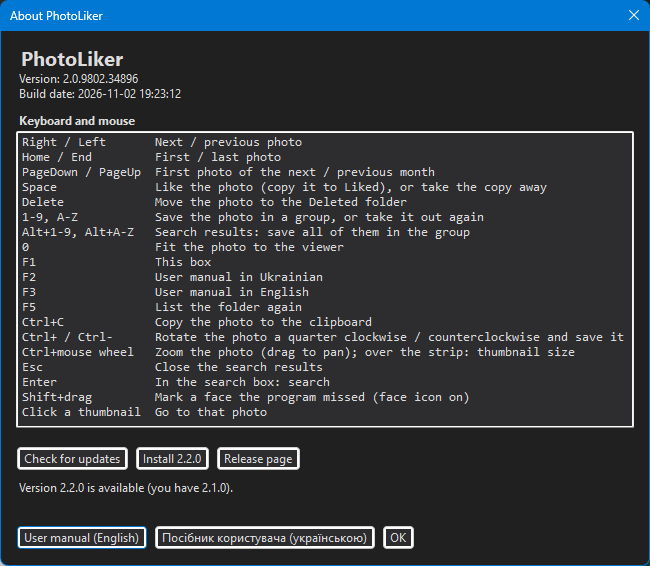
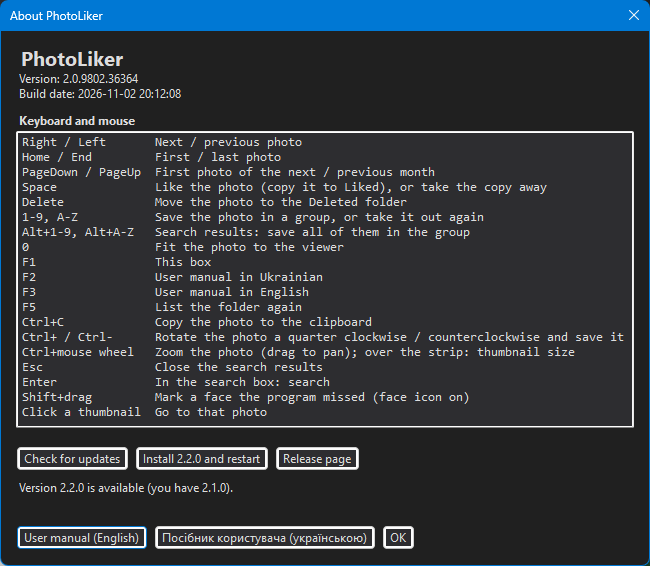
Enhance update process with progress bar and improved messaging; update UI and documentation

Changed region(s): [[0.3077, 0.7809, 0.5538, 0.841], [0.2154, 0.1502, 0.2769, 0.1802], [0.1538, 0.1201, 0.2154, 0.1502]]

diff --git a/docs/manual.en.html b/docs/manual.en.html
@@ -572,9 +572,11 @@ You do not need the box for that: <kbd>F3</kbd> opens the English manual and <kb
 </figure>
 
 <p><strong>Check for updates</strong> asks GitHub whether there is a newer version of PhotoLiker than yours. It asks only when you press it: nothing is checked in the
-background. If there is a newer version, <strong>Install</strong> asks you first, then downloads the setup, checks it, closes PhotoLiker, runs the setup over the installed
-copy and starts PhotoLiker again. Your settings, likes and search indexes are kept. <strong>Release page</strong> opens the page of that version, where it says what changed.
-A copy that was unpacked from the zip, or run from the source, is not replaced this way: the box then sends you to the release page.</p>
+background. If there is a newer version, <strong>Install and restart</strong> does the rest from the box: it downloads the setup (with a progress bar), checks it, closes PhotoLiker,
+runs the setup silently over the installed copy (only its small progress window shows) and starts PhotoLiker again. Your settings, likes and search indexes are kept.
+<strong>Release page</strong> opens the page of that version, where it says what changed.
+A copy that was unpacked from the zip, or run from the source, cannot be replaced by the setup: it installs PhotoLiker for you as a second copy and starts that one, so this is the one
+case where <strong>Install</strong> asks first. The copy you ran it from stays where it is.</p>
 
 <figure>
   <img src="images/27-about-update.png" alt="The About box after Check for updates found a newer version" width="650" height="566">

diff --git a/tools/SmokeTour/Tour.Update.cs b/tools/SmokeTour/Tour.Update.cs
@@ -29,25 +29,30 @@ internal sealed partial class Tour
         var opened = new List<string>();
         var questions = new List<string>();
         var answer = false;
-        var stage = "release"; // what the stand-in says: "release", "same", "down"
+        var stage = "release"; // what the stand-in says: "release", "same", "down", "nosetup"
+        ProgressBar? bar = null;
+        var barShownWhileDownloading = false;
 
         var requests = new List<string>();
         var handler = new StandInGitHub(request =>
         {
             requests.Add(request.RequestUri!.ToString());
             if (request.RequestUri.Host == "github.com")
+            {
+                barShownWhileDownloading = bar?.Visible == true; // the box shows the progress bar before it asks for the file
                 return new HttpResponseMessage(HttpStatusCode.OK) { Content = new ByteArrayContent(setupBytes) };
+            }
 
             var version = stage == "same" ? "2.1.0" : "2.2.0";
+            var assets = stage == "nosetup" ? "" : $$"""
+                { "name": "PhotoLiker-Setup-{{version}}.exe", "size": {{setupBytes.Length}}, "digest": "sha256:{{sha}}",
+                  "browser_download_url": "{{FakeRepository}}/download/v{{version}}/PhotoLiker-Setup-{{version}}.exe" }
+                """;
             return stage == "down"
                 ? new HttpResponseMessage(HttpStatusCode.InternalServerError)
                 : new HttpResponseMessage(HttpStatusCode.OK)
                 {
-                    Content = new StringContent($$"""
-                        { "tag_name": "v{{version}}", "assets": [ {
-                          "name": "PhotoLiker-Setup-{{version}}.exe", "size": {{setupBytes.Length}}, "digest": "sha256:{{sha}}",
-                          "browser_download_url": "{{FakeRepository}}/download/v{{version}}/PhotoLiker-Setup-{{version}}.exe" } ] }
-                        """, Encoding.UTF8, "application/json")
+                    Content = new StringContent($$"""{ "tag_name": "v{{version}}", "assets": [ {{assets}} ] }""", Encoding.UTF8, "application/json")
                 };
         });
 
@@ -69,8 +74,9 @@ internal sealed partial class Tour
         var install = Field<Button>(dialog, "_install");
         var releasePage = Field<Button>(dialog, "_releasePage");
         var status = Field<Label>(dialog, "_status");
+        bar = Field<ProgressBar>(dialog, "_progress");
 
-        checks.That(check.Visible && check.Enabled && !install.Visible && !releasePage.Visible && status.Text.Length == 0,
+        checks.That(check.Visible && check.Enabled && !install.Visible && !releasePage.Visible && !bar.Visible && status.Text.Length == 0,
             "at first there is the button and nothing else, and GitHub has not been asked");
         checks.That(requests.Count == 0, "nothing was asked of GitHub just by opening the box");
 
@@ -91,35 +97,42 @@ internal sealed partial class Tour
         stage = "release";
         check.PerformClick();
         checks.That(await Until(() => status.Text.Contains("Version 2.2.0 is available (you have 2.1.0)")), $"a newer version is announced ('{status.Text}')");
-        checks.That(install.Visible && install.Text == "Install 2.2.0" && releasePage.Visible, $"with the buttons '{install.Text}' and '{releasePage.Text}'");
+        checks.That(install.Visible && install.Text == "Install 2.2.0 and restart" && releasePage.Visible, $"with the buttons '{install.Text}' and '{releasePage.Text}'");
         await DialogShot(dialog, "27-about-update");
 
         releasePage.PerformClick();
         checks.That(opened.SequenceEqual([FakeRepository + "/tag/v2.2.0"]), $"the release page opens the page of the tag ({string.Join(", ", opened)})");
 
-        // 4. a newer version, this copy is a zip or a build from source
+        // 4. a newer version, this copy is a zip or a build from source: it can install too, after a question that says what will happen
         Set("InstalledBySetup", false);
         check.PerformClick();
-        checks.That(await Until(() => status.Text.Contains("not put here by the setup")), $"a copy that is not installed is sent to the release page ('{status.Text}')");
-        checks.That(!install.Visible && releasePage.Visible, "no Install button for it");
+        checks.That(await Until(() => status.Text.Contains("Version 2.2.0 is available (you have 2.1.0)")), $"a copy that is not installed is told the same ('{status.Text}')");
+        checks.That(install.Visible && releasePage.Visible, "and is offered the setup as well");
+        var downloadsBefore = requests.Count(url => url.Contains("/download/"));
+        install.PerformClick();
+        await Settle(300);
+        checks.That(questions.Count == 1 && questions[0].Contains("not put here by the setup") && questions[0].Contains("2.2.0"), "but it is asked first, and told it gets a second copy");
+        checks.That(requests.Count(url => url.Contains("/download/")) == downloadsBefore && !Directory.Exists(downloadFolder) && !bar.Visible, "and answering No downloads nothing");
+        checks.That(OpenDialog(AboutDialogType) is not null && install.Visible, "and the box stays as it was");
         Set("InstalledBySetup", true);
 
         // 5. a build that is no release
         Set("InstalledVersion", null);
         check.PerformClick();
         checks.That(await Until(() => status.Text.Contains("development build")), $"a build from source says what it is ('{status.Text}')");
-        checks.That(!install.Visible && releasePage.Visible, "and is not offered a setup");
+        checks.That(install.Visible && releasePage.Visible, "and may install the latest release");
         Set("InstalledVersion", new Version(2, 1, 0));
 
-        // 6. install: No to the question first, then Yes
+        // 6. a release that has no setup file
+        stage = "nosetup";
+        check.PerformClick();
+        checks.That(await Until(() => status.Text.Contains("has no setup file")), $"a release without a setup says so ('{status.Text}')");
+        checks.That(!install.Visible && releasePage.Visible, "and only offers its page");
+        stage = "release";
+
+        // 7. a copy that the setup put here: no question at all, a progress bar, then the window closes and starts the setup
         check.PerformClick();
         checks.That(await Until(() => install.Visible), "the newer version is found again");
-        var downloadsBefore = requests.Count(url => url.Contains("/download/"));
-        install.PerformClick();
-        await Settle(300);
-        checks.That(questions.Count == 1 && questions[0].Contains("2.2.0") && questions[0].Contains("closes"), "Install asks first, and says that the program closes");
-        checks.That(requests.Count(url => url.Contains("/download/")) == downloadsBefore && !Directory.Exists(downloadFolder), "and answering No downloads nothing");
-        checks.That(OpenDialog(AboutDialogType) is not null && install.Visible, "and the box stays as it was");
 
         var ran = false;
         var answeredAt = DateTime.UtcNow;
@@ -129,7 +142,9 @@ internal sealed partial class Tour
             // code does not run any more, the window it runs in is gone)
             ran = true;
             var file = new FileInfo(path);
-            checks.That(file.Exists && file.Length == setupBytes.Length && File.ReadAllBytes(path).SequenceEqual(setupBytes), "Yes: the setup was downloaded, whole, to " + path);
+            checks.That(questions.Count == 1, "Install asked nothing this time (the one question was the other copy's)");
+            checks.That(barShownWhileDownloading, "a progress bar was on while the setup came down");
+            checks.That(file.Exists && file.Length == setupBytes.Length && File.ReadAllBytes(path).SequenceEqual(setupBytes), "the setup was downloaded, whole, to " + path);
             checks.That(Path.GetFileName(path) == "PhotoLiker-Setup-2.2.0.exe" && Path.GetDirectoryName(path) == downloadFolder, "under the name GitHub gave it");
             checks.That(!Directory.EnumerateFiles(downloadFolder, "*.part").Any(), "nothing half-downloaded is left");
             checks.That(File.GetLastWriteTimeUtc(Path.Combine(AppPaths.DataFolder, "global-config.json")) >= answeredAt, "the window had saved its settings (as it closed) before the setup was started");
@@ -139,10 +154,8 @@ internal sealed partial class Tour
             return null;
         }));
 
-        answer = true;
         install.PerformClick();
         checks.That(await Until(() => ran, 20000), "the box closed, then the window, which started the setup");
-        checks.That(questions.Count == 2, "after a second question");
     }
 
     private sealed class StandInGitHub(Func<HttpRequestMessage, HttpResponseMessage> answer) : HttpMessageHandler

diff --git a/PhotoLikerUI/AboutDialog.cs b/PhotoLikerUI/AboutDialog.cs
@@ -15,6 +15,7 @@ namespace PhotoLikerUI
         private readonly Button _install;
         private readonly Button _releasePage;
         private readonly Label _status;
+        private readonly ProgressBar _progress;
         private ReleaseInfo? _release;
 
         /// <summary>The setup of a new version that was downloaded and is to be run, with the program closed (the window does it once the box has closed).</summary>
@@ -96,11 +97,14 @@ namespace PhotoLikerUI
                 Margin = new Padding(3, 6, 3, 0)
             };
 
+            // Only while the setup is downloaded
+            _progress = new ProgressBar { Style = ProgressBarStyle.Continuous, Size = new Size(shortcuts.Width, 14), Margin = new Padding(3, 4, 3, 0), Visible = false };
+
             var buttons = new FlowLayoutPanel { AutoSize = true, WrapContents = false, Margin = new Padding(0, 12, 0, 0) };
             buttons.Controls.AddRange([english, ukrainian, ok]);
 
             var layout = new TableLayoutPanel { AutoSize = true, ColumnCount = 1, Padding = new Padding(12), Dock = DockStyle.Fill };
-            layout.Controls.AddRange([heading, version, shortcutsHeading, shortcuts, updateButtons, _status, buttons]);
+            layout.Controls.AddRange([heading, version, shortcutsHeading, shortcuts, updateButtons, _status, _progress, buttons]);
             Controls.Add(layout);
 
             AcceptButton = ok;
@@ -144,7 +148,10 @@ namespace PhotoLikerUI
             }
         }
 
-        /// <summary>Says what the latest release means for this copy, and offers the setup if this copy can be updated by it.</summary>
+        /// <summary>
+        /// Says what the latest release means for this copy, and offers its setup (any copy can have it: one that the setup put here is replaced by it,
+        /// any other, a zip or a build from the source, gets an installed copy next to it, which InstallAsync says before it does it).
+        /// </summary>
         private void ShowLatest(ReleaseInfo? latest)
         {
             if (latest is null)
@@ -157,28 +164,25 @@ namespace PhotoLikerUI
             var number = latest.Version.ToString(3);
             var installed = UpdateLauncher.InstalledVersion;
 
-            if (installed is null)
-            {
-                _status.Text = string.Format(AboutStrings.UpdateDevelopmentFormat, number);
-                _releasePage.Visible = true;
-            }
-            else if (!UpdateChecker.IsNewer(latest.Version, installed))
+            if (installed is not null && !UpdateChecker.IsNewer(latest.Version, installed))
             {
                 _status.Text = string.Format(AboutStrings.UpdateUpToDateFormat, installed.ToString(3));
+                return;
             }
-            else
-            {
-                var canInstall = UpdateLauncher.InstalledBySetup && latest.InstallerUrl is not null;
-                _status.Text = string.Format(
-                    canInstall ? AboutStrings.UpdateAvailableFormat : latest.InstallerUrl is null ? AboutStrings.UpdateNoSetupFormat : AboutStrings.UpdateNotInstalledFormat,
-                    number, installed.ToString(3));
-                _install.Text = string.Format(AboutStrings.UpdateInstallButtonFormat, number);
-                _install.Visible = canInstall;
-                _releasePage.Visible = true;
-            }
+
+            // A build that is no release (installed is null) has no number to compare: it is told what the latest is, and may install it
+            _status.Text = installed is null
+                ? string.Format(AboutStrings.UpdateDevelopmentFormat, number)
+                : string.Format(latest.InstallerUrl is null ? AboutStrings.UpdateNoSetupFormat : AboutStrings.UpdateAvailableFormat, number, installed.ToString(3));
+            _install.Text = string.Format(AboutStrings.UpdateInstallButtonFormat, number);
+            _install.Visible = latest.InstallerUrl is not null;
+            _releasePage.Visible = true;
         }
 
-        /// <summary>Downloads the setup of the release found and closes the box; the window then closes and runs it (<see cref="SetupToRun"/>).</summary>
+        /// <summary>
+        /// Downloads the setup of the release found, with a progress bar, and closes the box; the window then closes, runs the setup silently and the
+        /// program starts again (<see cref="SetupToRun"/>). A copy that the setup did not put here is asked first: the new version becomes a second copy.
+        /// </summary>
         private async Task InstallAsync()
         {
             if (_release is not { InstallerUrl: not null } release)
@@ -186,12 +190,17 @@ namespace PhotoLikerUI
 
             var number = release.Version.ToString(3);
             var total = (double)release.InstallerBytes / BytesInMegabyte;
-            if (!UpdateLauncher.Confirm(this, string.Format(AboutStrings.UpdateConfirmFormat, number, total)))
+            if (!UpdateLauncher.InstalledBySetup && !UpdateLauncher.Confirm(this, string.Format(AboutStrings.UpdateConfirmCopyFormat, number, total)))
                 return;
 
             _check.Enabled = _install.Enabled = false;
+            _progress.Value = 0;
+            _progress.Visible = true;
             var progress = new Progress<(long Done, long Total)>(step =>
-                _status.Text = string.Format(AboutStrings.UpdateDownloadingFormat, number, (double)step.Done / BytesInMegabyte, (double)step.Total / BytesInMegabyte));
+            {
+                _status.Text = string.Format(AboutStrings.UpdateDownloadingFormat, number, (double)step.Done / BytesInMegabyte, (double)step.Total / BytesInMegabyte);
+                _progress.Value = step.Total > 0 ? (int)Math.Min(100, 100 * step.Done / step.Total) : 0;
+            });
             _status.Text = string.Format(AboutStrings.UpdateDownloadingFormat, number, 0.0, total);
 
             try
@@ -210,7 +219,10 @@ namespace PhotoLikerUI
             finally
             {
                 if (!IsDisposed)
+                {
+                    _progress.Visible = false;
                     _check.Enabled = _install.Enabled = true;
+                }
             }
         }
 

diff --git a/PhotoLikerUI/UpdateLauncher.cs b/PhotoLikerUI/UpdateLauncher.cs
@@ -21,8 +21,8 @@ namespace PhotoLikerUI
         public static Version? InstalledVersion { get; set; } = AppVersionInfo.ReleaseVersion;
 
         /// <summary>
-        /// Whether the setup put this copy here: it leaves unins000.exe beside the program. Only such a copy can be replaced by a new setup;
-        /// one that came from the zip is replaced by hand, and a setup run over it would put a second copy elsewhere.
+        /// Whether the setup put this copy here: it leaves unins000.exe beside the program. Only such a copy is replaced by a new setup; for any
+        /// other (the zip, a build from the source) the setup puts a second copy elsewhere, so the About box asks before it does that.
         /// </summary>
         public static bool InstalledBySetup { get; set; } = File.Exists(Path.Combine(AppContext.BaseDirectory, "unins000.exe"));
 

diff --git a/PhotoLikerUI/AboutStrings.cs b/PhotoLikerUI/AboutStrings.cs
@@ -24,10 +24,10 @@ namespace PhotoLikerUI
         public static string UpdateUpToDateFormat => T();
         public static string UpdateAvailableFormat => T();
         public static string UpdateDevelopmentFormat => T();
-        public static string UpdateNotInstalledFormat => T();
         public static string UpdateNoSetupFormat => T();
         public static string UpdateCheckFailedFormat => T();
-        public static string UpdateConfirmFormat => T();
+        public static string UpdateConfirmCopyFormat => T();
+        public static string UpdateNotClosed => T();
         public static string UpdateDownloadingFormat => T();
         public static string UpdateDownloadFailedFormat => T();
         public static string UpdateStartFailedFormat => T();

diff --git a/PhotoLikerUI/MainForm.Update.cs b/PhotoLikerUI/MainForm.Update.cs
@@ -17,6 +17,9 @@ namespace PhotoLikerUI
             _setupAfterClose = setup;
             Close();
             _setupAfterClose = null; // already used if the window closed; dropped if it did not
+
+            if (!IsDisposed) // it did not close: the download is there, but nothing was installed, which the person has to hear
+                MessageBox.Show(this, AboutStrings.UpdateNotClosed, MainFormStrings.AboutTitle, MessageBoxButtons.OK, MessageBoxIcon.Information);
         }
 
         /// <summary>Called by <c>OnFormClosed</c> when everything is saved, as the last thing the window does.</summary>

diff --git a/README.md b/README.md
@@ -92,14 +92,18 @@ Open the [About box](#about-box) (the question mark of the toolbar, or <kbd>F1</
 GitHub for the latest release of the project, and says if it is newer than the version you have. Only that button asks: nothing is checked
 in the background, nothing runs at startup.
 
-- If there is a newer version, **Install x.y.z** asks first, then downloads its setup, checks it against the size and the SHA-256
-  that GitHub gives for the file (a download that does not match is thrown away), closes PhotoLiker (after it saved what it keeps), runs the
-  setup silently over the installed copy and starts PhotoLiker again. Your settings, likes and search indexes stay: they are in
+- If there is a newer version, **Install x.y.z and restart** does all of it from the box, with no further question: it downloads the
+  setup (a progress bar and the megabytes so far), checks it against the size and the SHA-256 that GitHub gives for the file (a download that
+  does not match is thrown away), closes PhotoLiker (after it saved what it keeps), runs the setup silently over the installed copy (nothing to
+  click: only the setup's small progress window shows) and starts PhotoLiker again. Your settings, likes and search indexes stay: they are in
   `%LocalAppData%\PhotoLiker` and in your photo folders, which the setup does not touch.
 - **Release page** opens the page of that release (what changed, the files).
-- A copy that was not put there by the setup (unpacked from the zip, or run from source) is not replaced by a setup, which would leave a
-  second copy: the box says so and sends you to the release page.
-- If an index is being built, closing for the update asks the same question as closing the window does; answer No and nothing is installed.
+- A copy that the setup did not put there (unpacked from the zip, or a build run from the source) cannot be replaced by a setup: the setup
+  installs PhotoLiker for your user as a second copy, and starts that one. So this is the one case in which **Install** asks first, and says so;
+  this copy stays where it is, and shares its settings, likes and indexes with the installed one. A build from the source, which has no version number
+  to compare, is offered the latest release the same way.
+- If an index is being built, closing for the update asks the same question as closing the window does; answer No and nothing is installed (the
+  box says so; press Install again to retry).
 
 ## Photo search
 
@@ -904,8 +908,10 @@ What the [update button](#updating) of the About box relies on:
 - The latest release is the newest one that is neither a draft nor a pre-release (what the API's `releases/latest` returns), so a pre-release
   does not reach anyone through the button. GitHub allows 60 anonymous requests an hour from one address, plenty for a button that is pressed by hand.
 - The setup is started as `PhotoLiker-Setup-x.exe /SILENT /SP- /NORESTARTAPPLICATIONS /Relaunch=1` (`UpdateLauncher.SetupArguments`); `/Relaunch=1` is read by
-  `installer\PhotoLiker.iss`, which starts the program again at the end of a silent setup. A copy has to have `unins000.exe` beside it (the setup
-  puts it there) to be offered the setup.
+  `installer\PhotoLiker.iss`, which starts the program again at the end of a silent setup. A copy that has `unins000.exe` beside it (the setup
+  puts it there) is replaced without a question; any other copy is asked first (see [Updating](#updating)). The window is closed by the program itself before
+  the setup starts, so the setup does not have to close it (if it still finds it running, Windows' Restart Manager closes it, which the tests of the
+  setup showed to work).
 - The logic is `UpdateChecker` in Core (tested in `UpdateCheckerTests`, with a stand-in for GitHub); the button, the question and the download are
   in `AboutDialog`, and the smoke tour presses them with a stand-in for GitHub (below).
 
@@ -969,7 +975,7 @@ toolbar button, makes a video in the real Generate Video dialog with a cover (a 
 and photographs the dialog empty, filled in and done, then opens the About box and checks that it lists the keys and that both pages of the
 [user manual](#user-manual) are beside the program, and that <kbd>F1</kbd> opens the box and <kbd>F2</kbd> / <kbd>F3</kbd> hand the Ukrainian / English page
 to the browser (the tour takes that call instead, so no browser is launched). It ends with the [update button](#updating) of the About box, pressed
-for real with a stand-in for GitHub (nothing goes to the network): the same version, an error, a newer version (photographed), a copy that is not installed,
+for real with a stand-in for GitHub (nothing goes to the network): the same version, an error, a newer version (photographed), a copy that is not installed (asked first, answered No), a release without a setup file,
 a build that is no release, Install answered No and then Yes (the setup is downloaded and checked, the window closes and hands the setup to the tour
 instead of running it). Its pictures are `12-generate-video-button` to `16-about` and `27-about-update` of `docs\images`:
 
